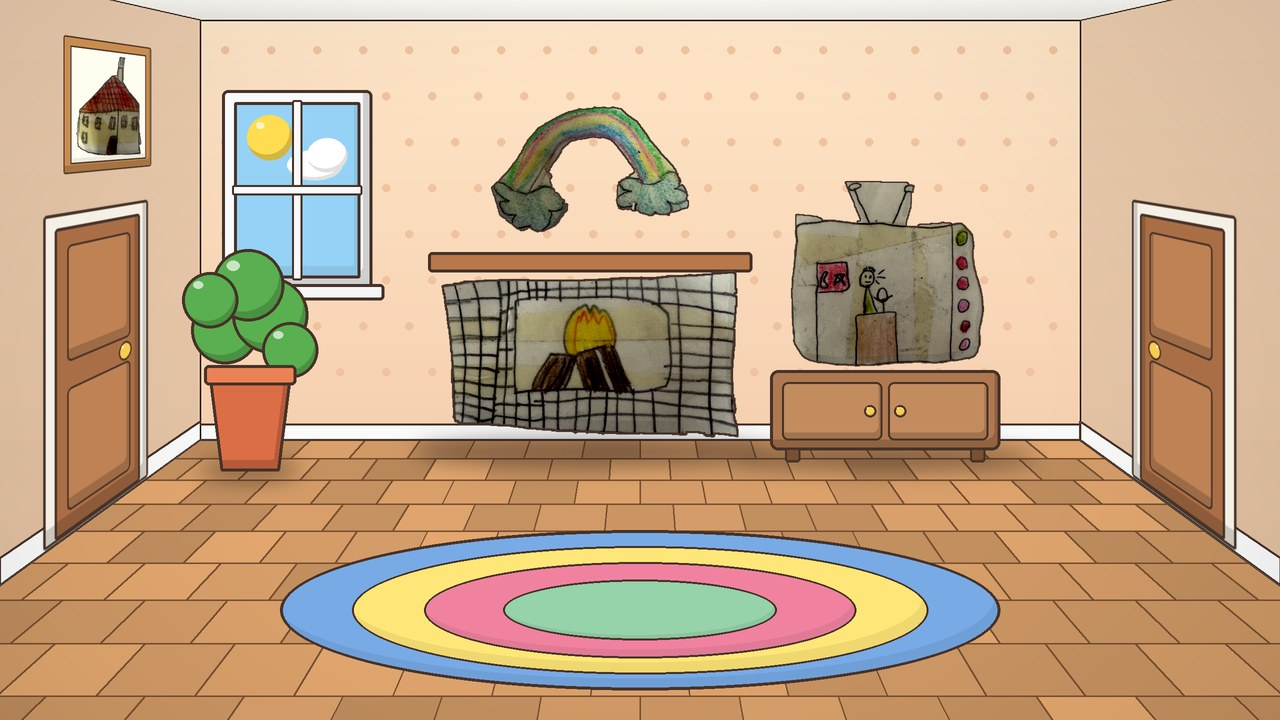
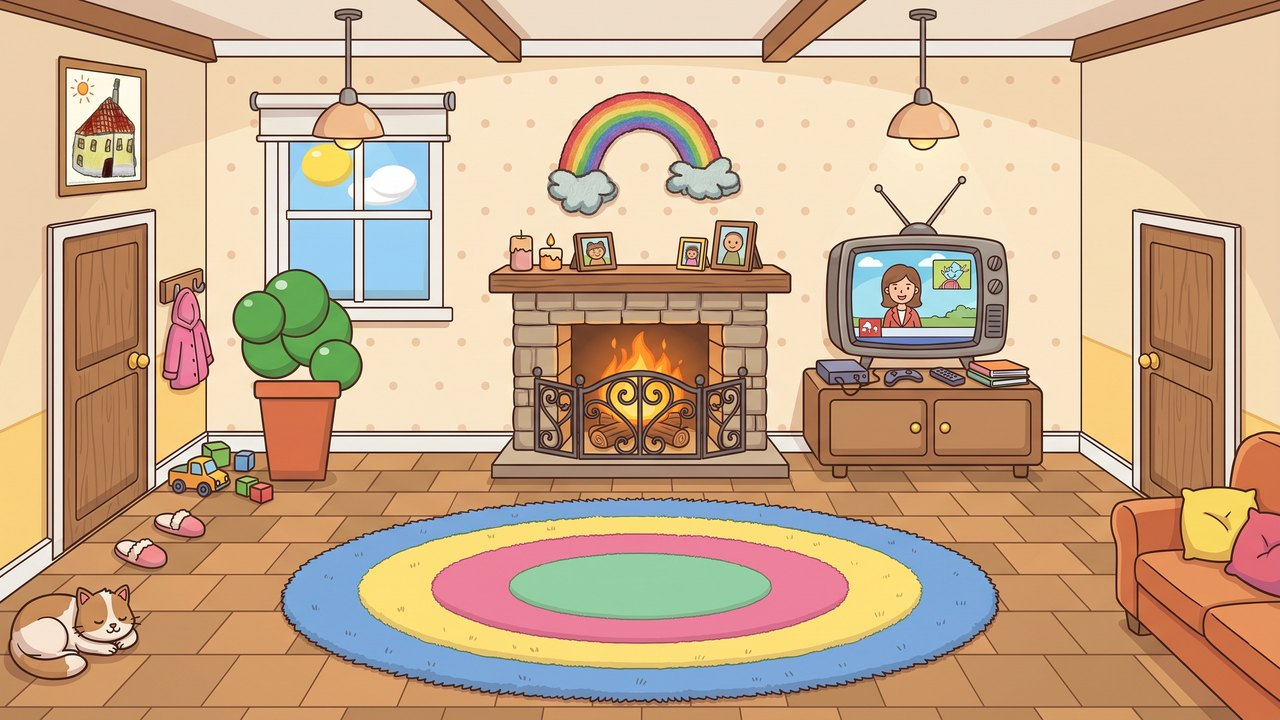
Salon: yeni oda resmi, TV ve dolap yeni yerinde, kanepeye oturulur
Claude-Session: https://claude.ai/code/session_01FSkVF6b9FMUcpnurV8yuFZ

diff --git a/js/veri.js b/js/veri.js
@@ -213,19 +213,21 @@ window.OYUN_VERI = {
       ad: "Salon", simge: "ev", ev: "ev1",
       resim: "cizimler/mekan/oda.jpg", zemin: ZEMIN, giris: GIRIS_SOL,
       kapilar: [
-        { ...KAPI_SOL, hedef: "dunya", yer: "ev1" },
-        { ...KAPI_SAG, hedef: "mutfak", giris: GIRIS_SOL },
+        { x: 48, y: 210, w: 110, h: 345, hedef: "dunya", yer: "ev1" },
+        { x: 1130, y: 210, w: 112, h: 300, hedef: "mutfak", giris: GIRIS_SOL },
       ],
       noktalar: [
-        { tur: "tv", x: 790, y: 180, w: 200, h: 185, ekran: { x: 806, y: 232, w: 140, h: 124 } },
+        { tur: "tv", x: 827, y: 180, w: 180, h: 175, ekran: { x: 852, y: 250, w: 125, h: 87 } },
         {
-          tur: "dolap", x: 770, y: 370, w: 230, h: 92,
-          resim: "cizimler/mekan/tv-dolabi-acik.png", x0: 712, y0: 362,
+          tur: "dolap", x: 802, y: 367, w: 240, h: 98,
+          resim: "cizimler/mekan/tv-dolabi-acik.png", x0: 765, y0: 362,
           raflar: [
-            { sablon: "kumanda", x: 815, y: 407 }, { sablon: "kitap", x: 885, y: 407 }, { sablon: "telefon", x: 955, y: 407 },
-            { sablon: "kup", x: 830, y: 441 }, { sablon: "ordek", x: 935, y: 441 },
+            { sablon: "kumanda", x: 860, y: 424 }, { sablon: "kitap", x: 930, y: 424 }, { sablon: "telefon", x: 1000, y: 424 },
+            { sablon: "kup", x: 875, y: 452 }, { sablon: "ordek", x: 985, y: 452 },
           ],
         },
+        // Sağ alttaki kanepe: karakter üstüne bırakılınca oturur.
+        { tur: "otur", x: 1120, y: 490, w: 160, h: 190, oturma: { x: 1205, y: 645 } },
       ],
     },
     mutfak: {
